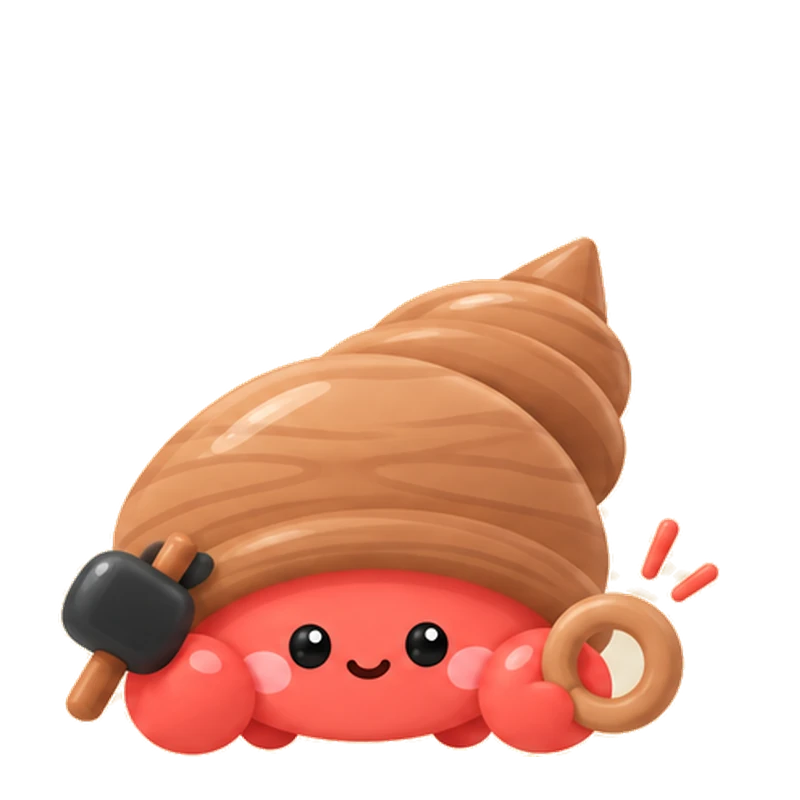
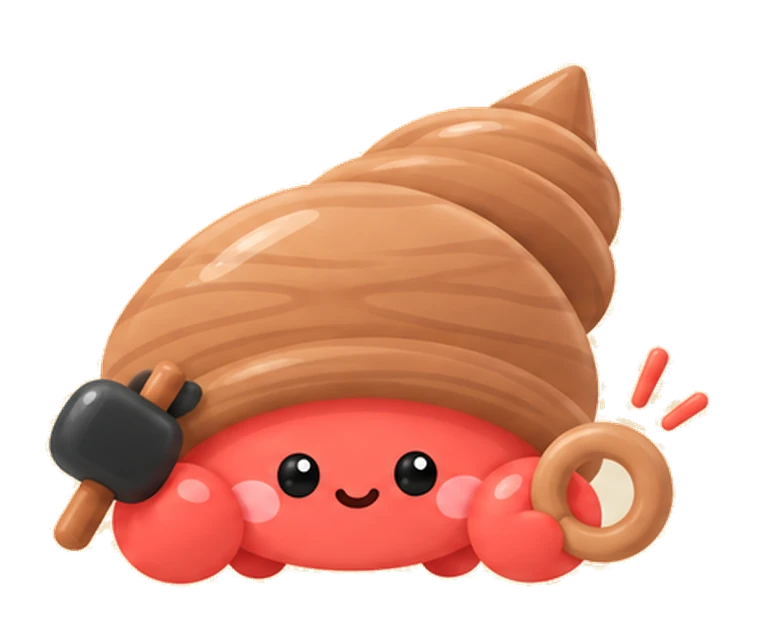
소라게 9종 — 껍데기 끝 잘림 · 광택 구멍 고치고 같은 틀로 크게, 메인 게하게 그림 '이사갈까?' 판으로

diff --git a/src/styles/test.css b/src/styles/test.css
@@ -80,10 +80,10 @@
 .result__tags { display: flex; flex-wrap: wrap; justify-content: center; gap: 8px; margin: 0; padding: 0; list-style: none; }
 .result__tag { padding: 7px 14px; border-radius: 999px; background: rgba(240, 136, 58, .1); font-size: clamp(14px, 1.3vw, 15.5px); font-weight: 600; line-height: 1.3; letter-spacing: -0.01em; color: var(--orange-ink); }
 /* 1위 캐릭터 그림 — 배경 없이 오린 소라게, 비율 그대로 */
-.result__hero { position: relative; width: min(100%, 400px); margin-top: 10px; padding-top: 48px; }
-.result__hero img { display: block; width: clamp(180px, 20vw, 220px); height: auto; margin: 0 auto; } /* 이야기 화면 소라게와 비슷한 크기 */
-/* 넓은 화면 — BEST 1 은 BEST 2 · 3(170px)보다 크게 */
-@media (min-width: 768px) { .result__hero img { width: 300px; } }
+.result__hero { position: relative; width: min(100%, 460px); margin-top: 10px; padding-top: 48px; }
+.result__hero img { display: block; width: clamp(260px, 72vw, 340px); height: auto; margin: 0 auto; } /* 1위 소라게 — 크게 */
+/* 넓은 화면 — BEST 1 은 BEST 2 · 3(250px)보다 크게 */
+@media (min-width: 768px) { .result__hero img { width: 420px; } }
 .result__rank { position: absolute; left: 50%; top: 0; translate: -50% 0; padding: 5px 0; white-space: nowrap; font-size: clamp(21px, 2.3vw, 27px); font-weight: 700; letter-spacing: .1em; color: var(--orange-ink); }
 .result__head .btn { margin-top: 10px; }
 
@@ -92,7 +92,7 @@
 .pick { position: relative; display: flex; flex-direction: column; align-items: center; gap: 6px; padding: 0 0 26px; border-radius: 18px; overflow: hidden; background: #FDF6EA; text-align: center; }
 .pick__rank { position: absolute; left: 14px; top: 14px; z-index: 1; padding: 5px 12px; border-radius: 999px; background: #fff; box-shadow: 0 1px 6px rgba(58, 55, 53, .1); }
 .pick__rank strong { font-size: 12.5px; letter-spacing: .1em; color: var(--orange-ink); }
-.pick__character { width: min(66%, 170px); margin-top: 52px; }
+.pick__character { width: min(88%, 250px); margin-top: 52px; }
 .pick__character img { display: block; width: 100%; height: auto; }
 .pick__charname { font-family: var(--f-home); font-size: clamp(19px, 1.9vw, 23px); font-weight: 700; line-height: 1.35; letter-spacing: -0.02em; padding-inline: 14px; color: var(--orange-ink); }
 .pick__name { font-family: var(--f-home); font-size: 16px; font-weight: 500; line-height: 1.4; color: var(--ink); }
@@ -120,7 +120,7 @@
 .others__list { display: grid; grid-template-columns: repeat(3, minmax(0, 1fr)); gap: clamp(10px, 2vw, 18px); width: 100%; margin-top: 14px; }
 .others__item { display: grid; justify-items: center; gap: 4px; height: 100%; padding: 14px 8px 16px; border-radius: 16px; background: #FDF6EA; text-decoration: none; color: var(--ink); transition: transform var(--t-hover) var(--ease), box-shadow var(--t-hover) var(--ease); }
 .others__item:hover { transform: translateY(-3px); box-shadow: 0 6px 16px rgba(58, 55, 53, .1); }
-.others__item img { display: block; width: min(80%, 130px); height: auto; margin-bottom: 4px; }
+.others__item img { display: block; width: min(96%, 180px); height: auto; margin-bottom: 4px; }
 .others__char { font-family: var(--f-home); font-size: clamp(13px, 1.4vw, 16px); font-weight: 700; line-height: 1.35; letter-spacing: -0.02em; text-wrap: balance; color: var(--orange-ink); }
 .others__place { font-size: clamp(12px, 1.2vw, 14px); font-weight: 500; color: var(--ink); }
 .result__actions { display: grid; justify-items: center; gap: 12px; margin-top: 36px; }

diff --git a/src/i18n/ui.ts b/src/i18n/ui.ts
@@ -92,7 +92,7 @@ export const UI: Record<Lang, UiText> = {
       sub: (n) => `${n}가지 질문으로 찾는 나의 제주 게스트하우스`,
       storyTitle: '‘게하게’',
       storyBody: '바다에서 올라온 소라게, 게하게\n마음에 드는 집을 찾으면 껍데기를 바꿔 들어가요.',
-      storyBubble: '오늘은 어떤 집에서\n묵어볼까?',
+      storyBubble: '오늘은 어떤 집으로\n이사갈까?',
       start: '테스트 시작하기',
       progress: '진행 상태', prev: '이전 질문', next: '다음으로', seeResult: '결과 보기',
       sharedLabel: 'RESULT', resultLabel: 'YOUR JEJU TASTE', lead: '나의 게스트하우스 취향은',
@@ -157,7 +157,7 @@ export const UI: Record<Lang, UiText> = {
       sub: (n) => `Find your Jeju guesthouse in ${n} questions`,
       storyTitle: '‘Gehage’',
       storyBody: 'Up from the sea came a hermit crab named Gehage.\nWhen it finds a home it likes, it swaps shells and moves in.',
-      storyBubble: 'Which home shall\nI stay in today?',
+      storyBubble: 'Which home shall\nI move into today?',
       start: 'Start the test',
       progress: 'Progress', prev: 'Previous', next: 'Next', seeResult: 'See my result',
       sharedLabel: 'RESULT', resultLabel: 'YOUR JEJU TASTE', lead: 'Your guesthouse taste is',
@@ -222,7 +222,7 @@ export const UI: Record<Lang, UiText> = {
       sub: (n) => `用${n}个问题找到我的济州民宿`,
       storyTitle: '「게하게」',
       storyBody: '从海里爬上来的寄居蟹，게하게。\n找到喜欢的家，就换个壳住进去。',
-      storyBubble: '今天要住进\n哪个家呢？',
+      storyBubble: '今天要搬进\n哪个家呢？',
       start: '开始测试',
       progress: '进度', prev: '上一题', next: '下一题', seeResult: '查看结果',
       sharedLabel: 'RESULT', resultLabel: 'YOUR JEJU TASTE', lead: '你的民宿喜好是',

diff --git a/src/styles/home.css b/src/styles/home.css
@@ -208,8 +208,8 @@
 .find__gehage .story__scene { margin-top: 0; }
 /* 입체 소라게 + 말풍선 한 장 (한국어) */
 .find__gehage .story__scene-art { display: block; width: clamp(260px, 30vw, 380px); height: auto; }
-/* 소라게 몸(그림 폭의 34% 지점)이 글 가운데 오도록 오른쪽으로 — 말풍선은 오른쪽으로 비켜 남 */
-.find__gehage .story__scene-art { translate: 16% 0; }
+/* 소라게 몸(그림 폭의 35% 지점)이 글 가운데 오도록 오른쪽으로 — 말풍선은 오른쪽으로 비켜 남 */
+.find__gehage .story__scene-art { translate: 15% 0; }
 .find__gehage .story__title { font-size: clamp(22px, 2.2vw, 28px); }
 .find__gehage .story__body { font-size: clamp(15px, 1.4vw, 17px); line-height: 1.75; }
 @media (max-width: 899px) {

diff --git a/src/components/GehageScene.tsx b/src/components/GehageScene.tsx
@@ -12,7 +12,7 @@ const BUBBLE_PATH = 'M54.6 100.6 A100 52 0 1 0 30.1 87.8 Q29 110 14 126 Q38 117 
 export function GehageScene({ bubbleId = 'story-bubble-fill' }: { bubbleId?: string }) {
   const { lang, ui } = useContent();
   if (lang === 'ko') {
-    // 받은 그림 그대로 — 입체 소라게 + 말풍선('오늘은 어떤 집에서 묵어볼까?') 한 장, 바깥 배경만 뺌
+    // 받은 그림 그대로 — 입체 소라게 + 말풍선('오늘은 어떤 집으로 이사갈까?') 한 장, 바깥 배경만 뺌
     return (
       <div className="story__scene">
         <img className="story__scene-art" src={sceneUrl} alt={ui.test.storyBubble.replace('\n', ' ')} />
